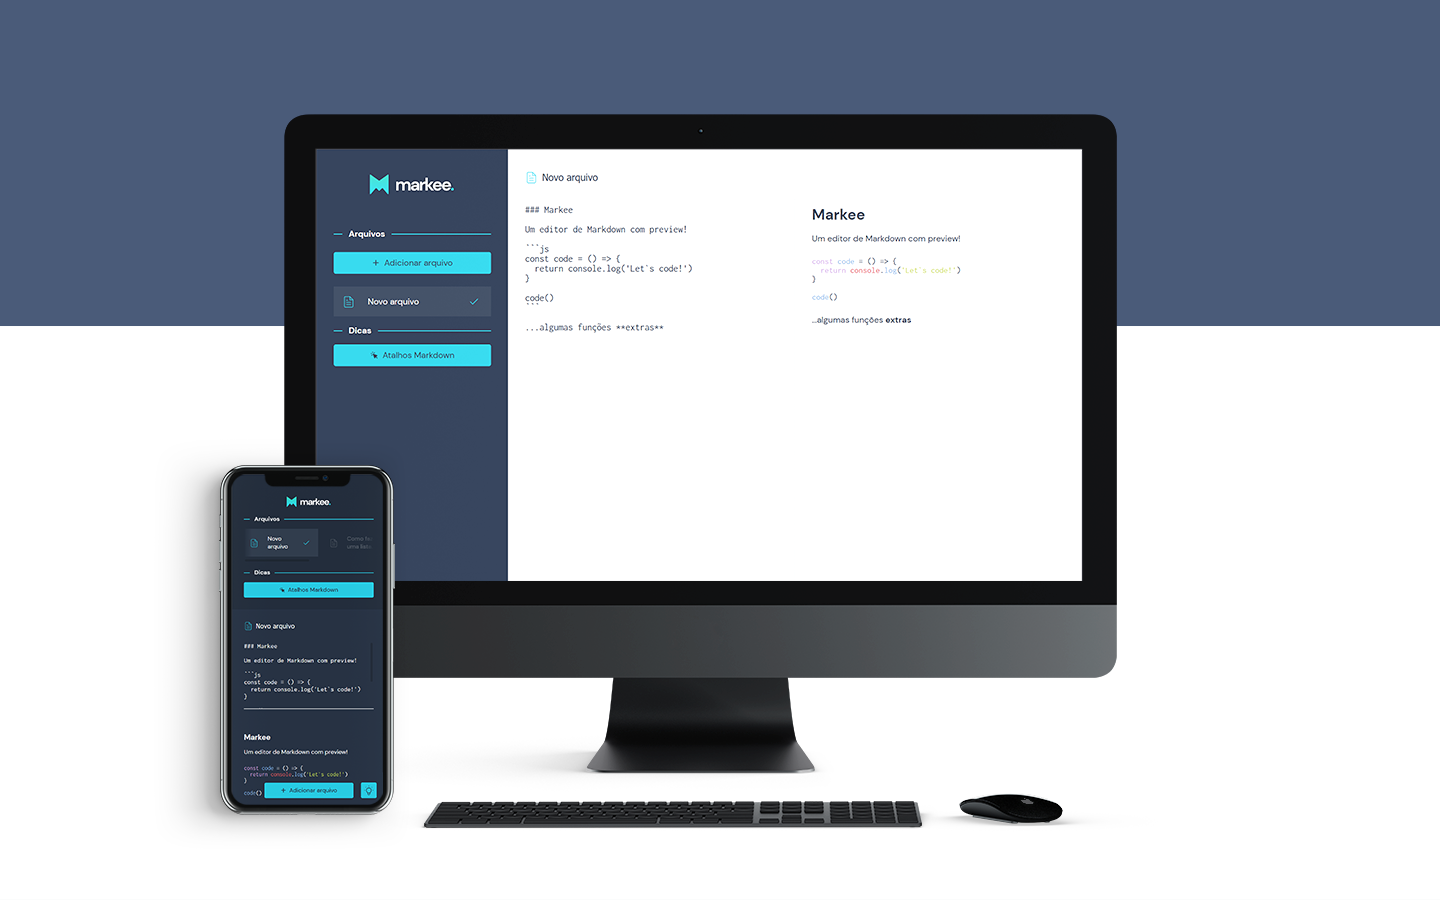
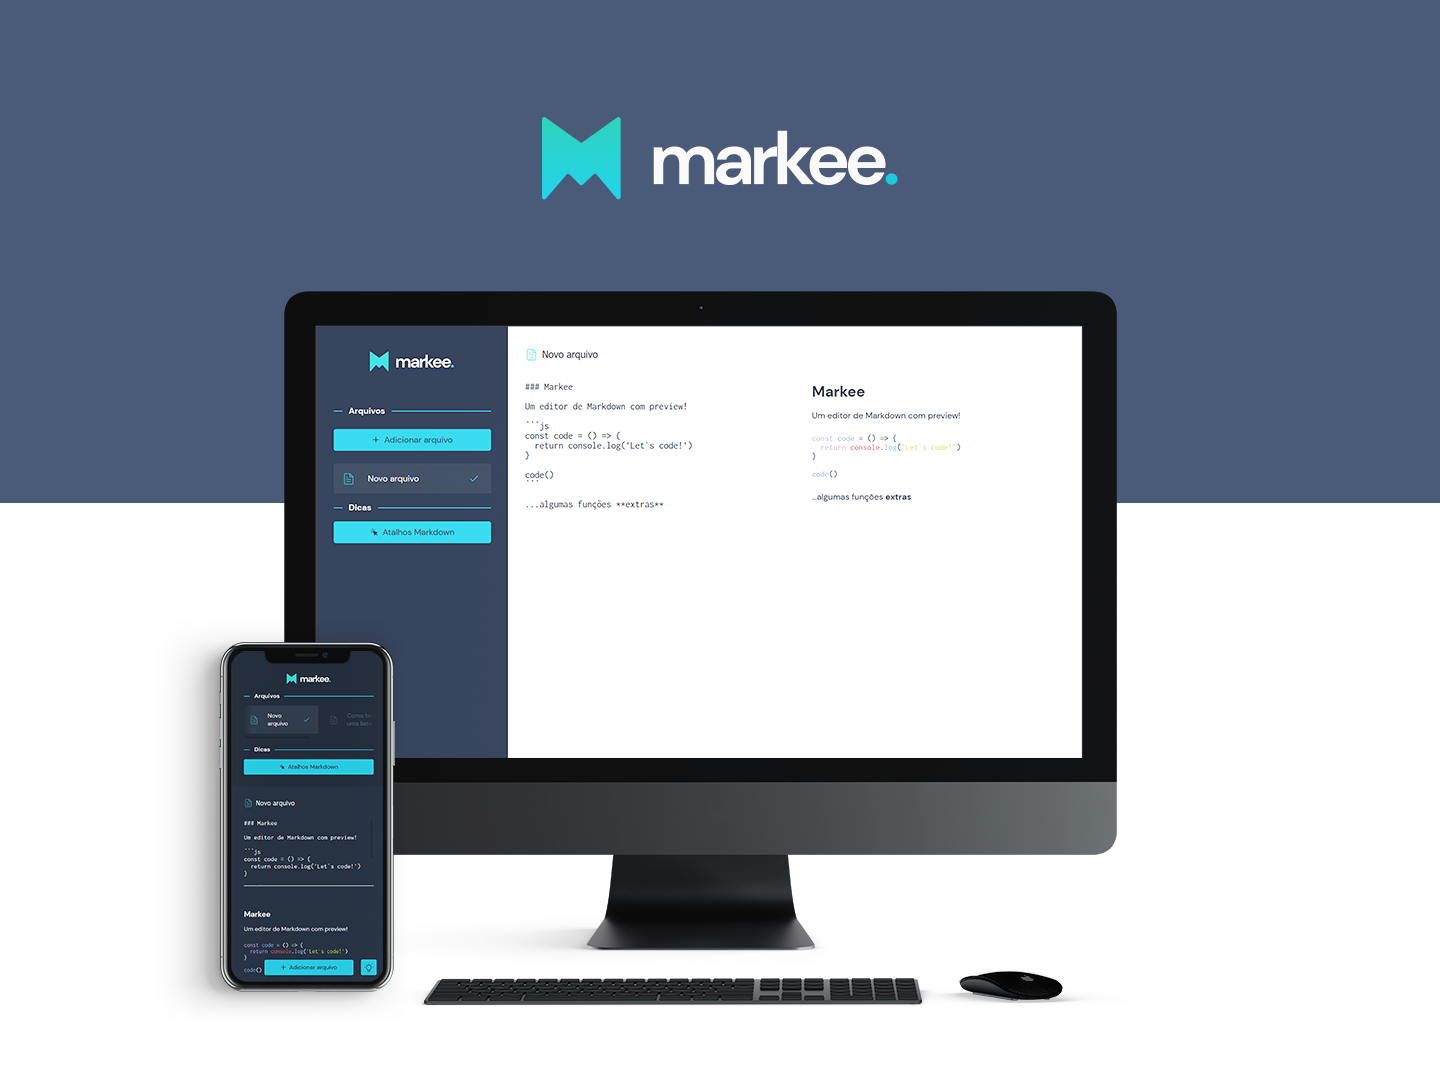
Update README.md + image

diff --git a/README.md b/README.md
@@ -1,7 +1,3 @@
-<h1 align="center">
-  <img alt="markee-app" title="markee-app" src="./.github/markee-logo.svg" width="220px" />
-</h1>
-
 <img src="./.github/markee-presentation.png" />
 
 ## 💻 About
